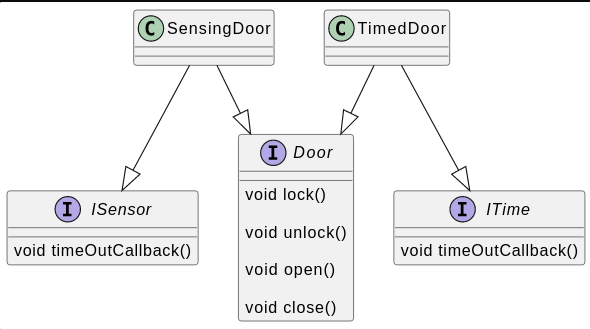
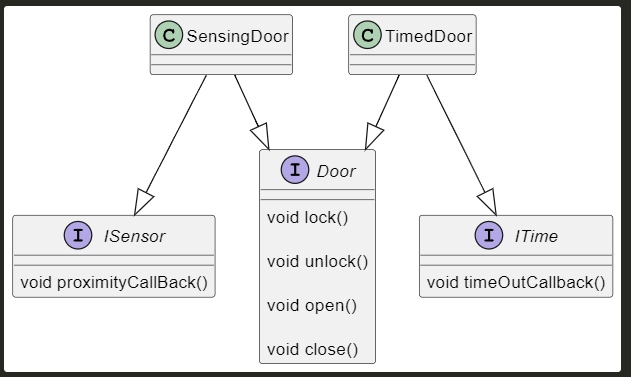
fixes

Changed region(s): [[0.0, 0.0, 1.0, 1.0], [0.7017, 0.2736, 0.7627, 0.4863], [0.2441, 0.3647, 0.2746, 0.4559]]

diff --git a/README.md b/README.md
@@ -2,18 +2,19 @@
 
 <h2> I Introduction </h2>
 
+Afin d'assurer le fonctionnement des logiciels dans les meilleures conditions et faciliter la mise à jour , la scalabilité et la lisibilité du code, on procède à appliquer des règles diverses qui aident à satisfaire les contraintes fonctionnelleset et répondre aux normes de l'industrie.
+
 <h2>II Les règles d'une bonne architecture logicielle </h2>
 
-<h3> DIP </h3>
-
-<h3> OCP : The Open/Closed Principle </h3>
+<h3 style="color:#EFEFEF" > OCP : The Open/Closed Principle </h3>
 
 _Probleme_
+
 Dans notre exemple du RessourceAllocator, cette classe contient toutes les méthodes pour libérer, réserver, rechercher des slots libres mais l'allocation et la libération sont différent espour chacunes de ces methodes selon le type des ressources (TimeResource ou SpaceResource), ce qui augmente considérablement la taille de ces méthodes et rend la modification plus difficile.
 
 De plus, on est en train de proposer des méthodes différentes pour la même fonctionnalité ( markTimeSlotFree et markSpaceSlotFree par exemple)
 
-<div class="puml">
+<div class="puml" >
 
 ![Class Diagram](./assets/diagrams-before/OCP.png)
 
@@ -32,7 +33,7 @@ Construire une interface Resource contenant les methodes génériques pour chaqu
 
 _Probleme_
 
-Le problem dans cette implémentation est que nous recourons a utiliser des if et des else partout dans notre code ce qui fait que notre code ne serait plus maintenable.
+Le problem dans cette implémentation est que nous devons utiliser des if et des else partout dans notre code pour réaliser un traitement sur mesure pour chaque nouvelle classe qui implémente l'interface principlae ce qui fait que notre code ne serait plus maintenable.
 
 <div class="puml">
 
@@ -42,18 +43,18 @@ Le problem dans cette implémentation est que nous recourons a utiliser des if e
 
 _Solution_
 
-Dans cet example, on a 2 types de ducks ( electrique and donald ) le probleme est que donald et electric ont des methodes en communs mais electric duck a queleques methodes specifiques. Pour avoir une bonne architecture, on a besoin de créer une interface pour la class duck et une autre héritant de duck ( electrique duck ) contentant les methodes spécifique a electrique ( turn on and off ).
+Dans cet exemple,le probleme est que donald duck et electric duck ont des methodes en communs mais electric duck a queleques methodes specifiques. Pour avoir une bonne architecture, on a besoin de créer une interface pour la class duck et une autre héritant de duck ( electrique duck ) contentant les methodes spécifique a electrique ( turn on and off ).
 
 <div class="puml">
 
 ![Class Diagram](./assets/diagrams-after/LSP.png)
 
 </div>
-<h3> ISP : Interface Segregation Principle </h3>
+<h3  style="color:#EFEFEF" > ISP : Interface Segregation Principle </h3>
 
 _Probleme_
 
-Ici, on a beaucoup de class concrete différente héritant d'une seul interface contenant des méthodes implémenté par quelques class et d'autre qui ne fasses rien du tout. Ce ci va engendrer du code inutile.
+Ici, on a beaucoup de classes concrètes différentes héritant d'une seule interface contenant des méthodes implémentées par quelques clases et d'autres qui ne fasses rien du tout. Ce ci va engendrer du code inutile.
 
 <div class="puml">
 
@@ -63,20 +64,20 @@ Ici, on a beaucoup de class concrete différente héritant d'une seul interface 
 
 _Solution_
 
-Pour remédier a ce probléme, on fait recours a l'ISP, puisque timeOutCallback et implémenté par timedDoor et proximityCallBack est implémenté par sensingDoor, on crée 2 nouvelles intérfaces ISensor et Itimer héritant chacune l'une et l'autre.
+Pour remédier a ce probléme, on fait recours a l'ISP, puisque timeOutCallback et implémenté par timedDoor et proximityCallBack est implémenté par sensingDoor, on crée 2 nouvelles interfaces ISensor et Itimer héritant chacune l'une et l'autre.
 Maintenant, TimedDoor implémente Door et Itime et Isensor implémente Isensor en plus que Door. Ainsi, notre code et plus facilement extensible et plus maintenable.
 
 <div class="puml">
 
-![Class Diagram](./assets/diagrams-after/ISP.png)
+![Class Diagram](./ISP/src/com/directi/training/isp/exercise/diagram.puml)
 
 </div>
 
-<h3> DIP: Dependency Inversion Principle </h3>
+<h3  style="color:#EFEFEF" > DIP: Dependency Inversion Principle </h3>
 
 _Probleme_
 
-Le probléme ici et que le EncodingModule, et un peu confus. EncodeWithFiles() et encodeBasedOnNetworkAndDatabase() sont trés différent et devrais etre implémenté différement. Par example, seul la 2éme fonction utilise MyDatabase. 
+Le problème ici est que le EncodingModule est un peu déroutant. EncodeWithFiles() et encodeBasedOnNetworkAndDatabase() sont trés différents et devraient être implémentés différemment. Par example, seul la 2éme fonction utilise MyDatabase.
 
 <div class="puml">
 
@@ -86,19 +87,19 @@ Le probléme ici et que le EncodingModule, et un peu confus. EncodeWithFiles() e
 
 _Solution_
 
-Pour remédier a ce probleme, on éclate le encoding module grace au DIP. Dans ce cas, on a une interface Encoder contenat la méthode encode. et 2 classes concrete fileEncoder and DatabaseEncoderAndNetwork. maintenant, seul DatabaseEncoder est en relation avec myDatabase.
+Pour remédier à ce probleme, on éclate le encoding module grâce au DIP. Dans ce cas, on a une interface Encoder contenat la méthode encode. et 2 classes concrete fileEncoder and DatabaseEncoderAndNetwork. maintenant, seul DatabaseEncoder est en relation avec myDatabase.
 
 <div class="puml">
 
-![Class Diagram](./asse ts/diagrams-after/DIP.png)
+![Class Diagram](./assets/diagrams-after/DIP.png)
 
 </div>
 
-<h3> SRP: Single Responsability Principle  </h3>
+<h3  style="color:#EFEFEF" > SRP: Single Responsability Principle  </h3>
 
 _Probleme_
 
-Ici, la class CarManager implémente toutes les méthodes ce qui n'est pas vraiment une bonne pratique pour les class Manager. nous devrons distribué les taches selon leur intéret.
+Ici, la class CarManager implémente toutes les méthodes ce qui n'est pas vraiment une bonne pratique pour les classes Managers,Ils doivent seulement gérer la logique métier et non pas la . nous devrons distribué les taches selon leur intéret.
 
 <div class="puml">
 
@@ -108,20 +109,10 @@ Ici, la class CarManager implémente toutes les méthodes ce qui n'est pas vraim
 
 _Solution_
 
-On utilisant la SRP, on a maintenant séparé carManager en 3 class principales carDb implémentant toutes méthodes en relation directe avec la base de donné, carNamesList qui gére la liste des voiture selectioné. et car Assessment implémentant des méthodes permetant d'avoir une idée sur l'état des voitures. Dans ce cas, toutes classe a une seul responsabilité.
+On utilisant la SRP, on a maintenant séparé carManager en 3 classes principales carDb implémentant toutes méthodes en relation directe avec la base de donné, carNamesList qui gére la liste des voiture selectioné. et car Assessment implémentant des méthodes permetant d'avoir une idée sur l'état des voitures. Dans ce cas, toutes classe a une seul responsabilité.
 
 <div class="puml">
 
 ![Class Diagram](./assets/diagrams-after/SRP.png)
 
 </div>
-
-<style>
-.puml{
-    display:flex;
-    justify-content:center;
-    overflow:hidden;
-    
-}
-
- </style>
